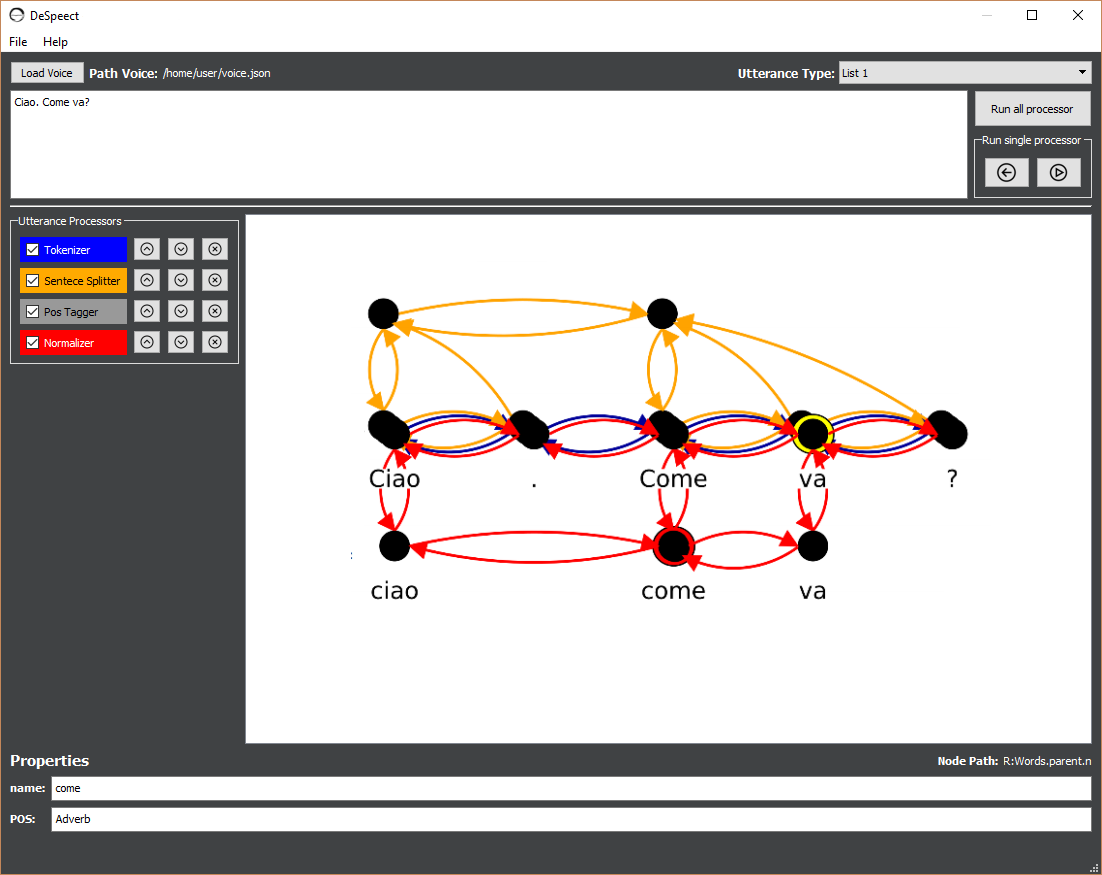
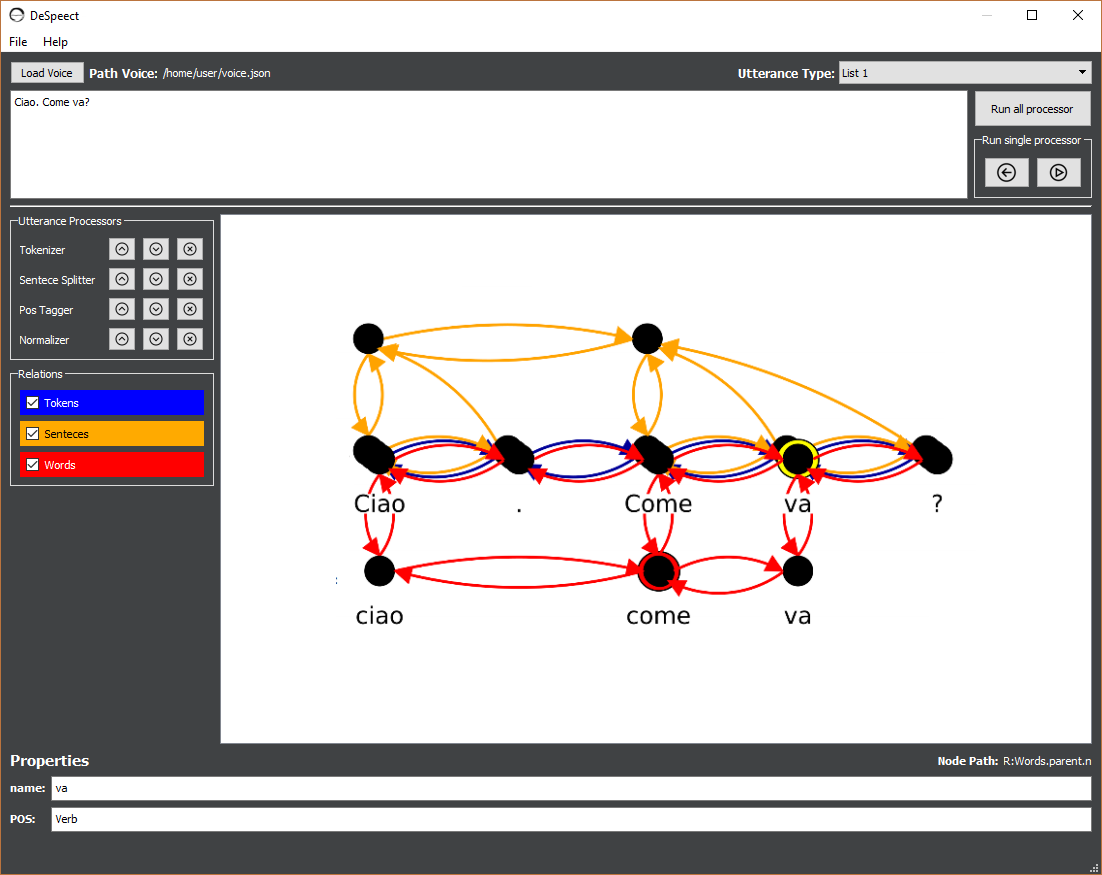
Modifica Analisi dei requisiti - Interfaccia grafica
Aggiunto box "Relations"

diff --git a/AnalisideiRequisiti/tex/DescrizioneGenerale.tex b/AnalisideiRequisiti/tex/DescrizioneGenerale.tex
@@ -52,10 +52,10 @@ In questa parte verrà presentato, in linea generale, il funzionamento dell'inte
 		 Man mano che gli utterance processor vengono eseguiti, nell'area centrale bianca (vedi \ref{fig:GUI}) verrà disegnato il \glossario{grafo HRG}{grafo HRG}.
 		 \\Nella sezione degli utterance processor (vedi \ref{fig:GUI}) l'utente avrà la possibilità di:
 		\begin{itemize}
-			\item{}decidere se visualizzare il grafo HRG di una determinata utterance mediante una spunta;
 			\item{}modificare l'ordine di esecuzione delle utterance agendo sulle freccie a lato della singola utterance processor;
 			\item{}rimuovere una determinata utterance processor dall'elenco e quindi dalla utterance type.
 		\end{itemize}
+		Nel riquadro denominato "Relations" l'utente potrà decidere quali relazioni, del grafo HRG, visualizzare.
 	
 		 Cliccando un nodo del grafo HRG l'utente lo evidenzierà con un cerchio di colore giallo e potrà visualizzare, nella parte inferiore dell'interfaccia grafica, le sue proprietà, tra cui il percorso del nodo.
 	\begin{figure}[htp]
